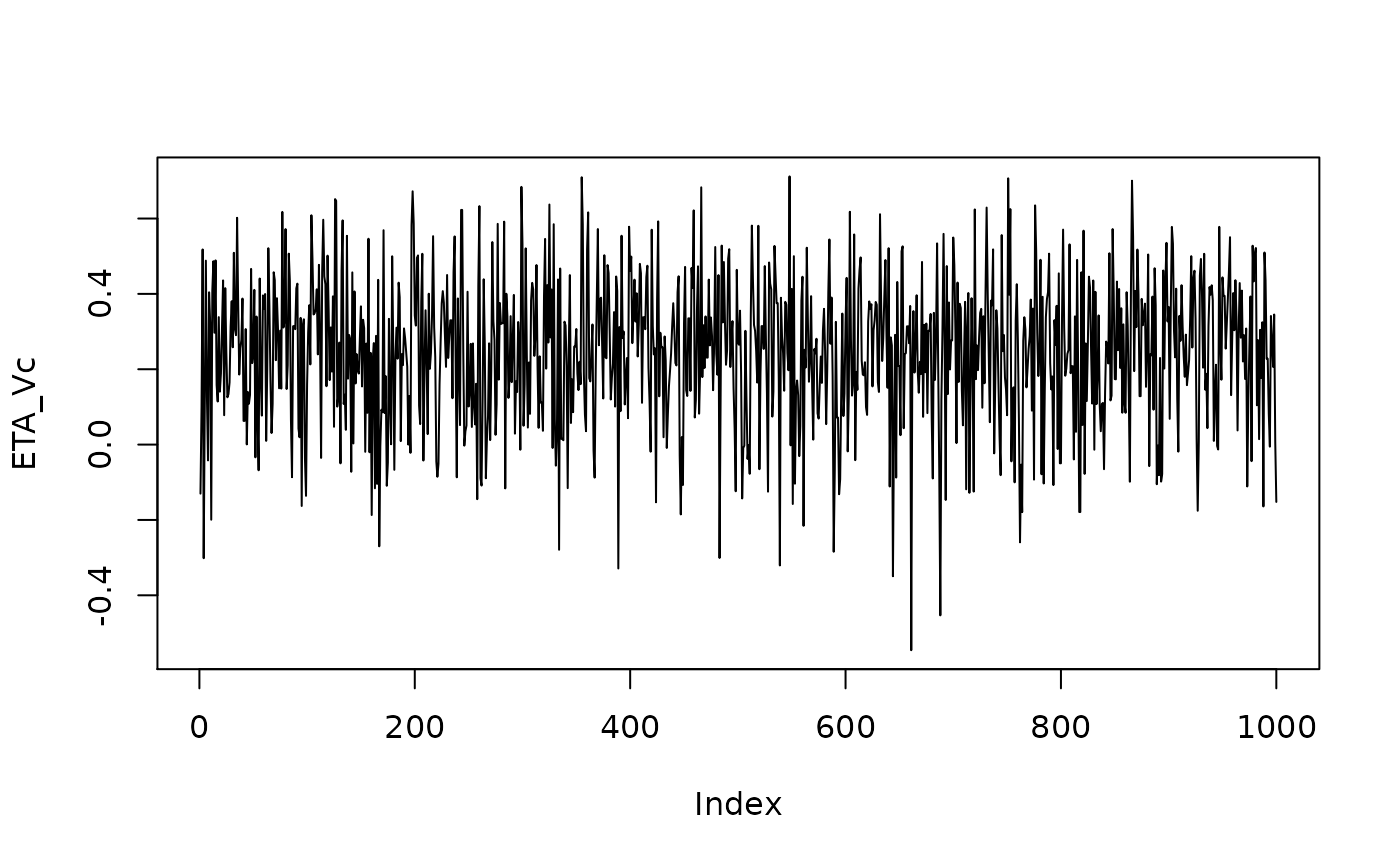
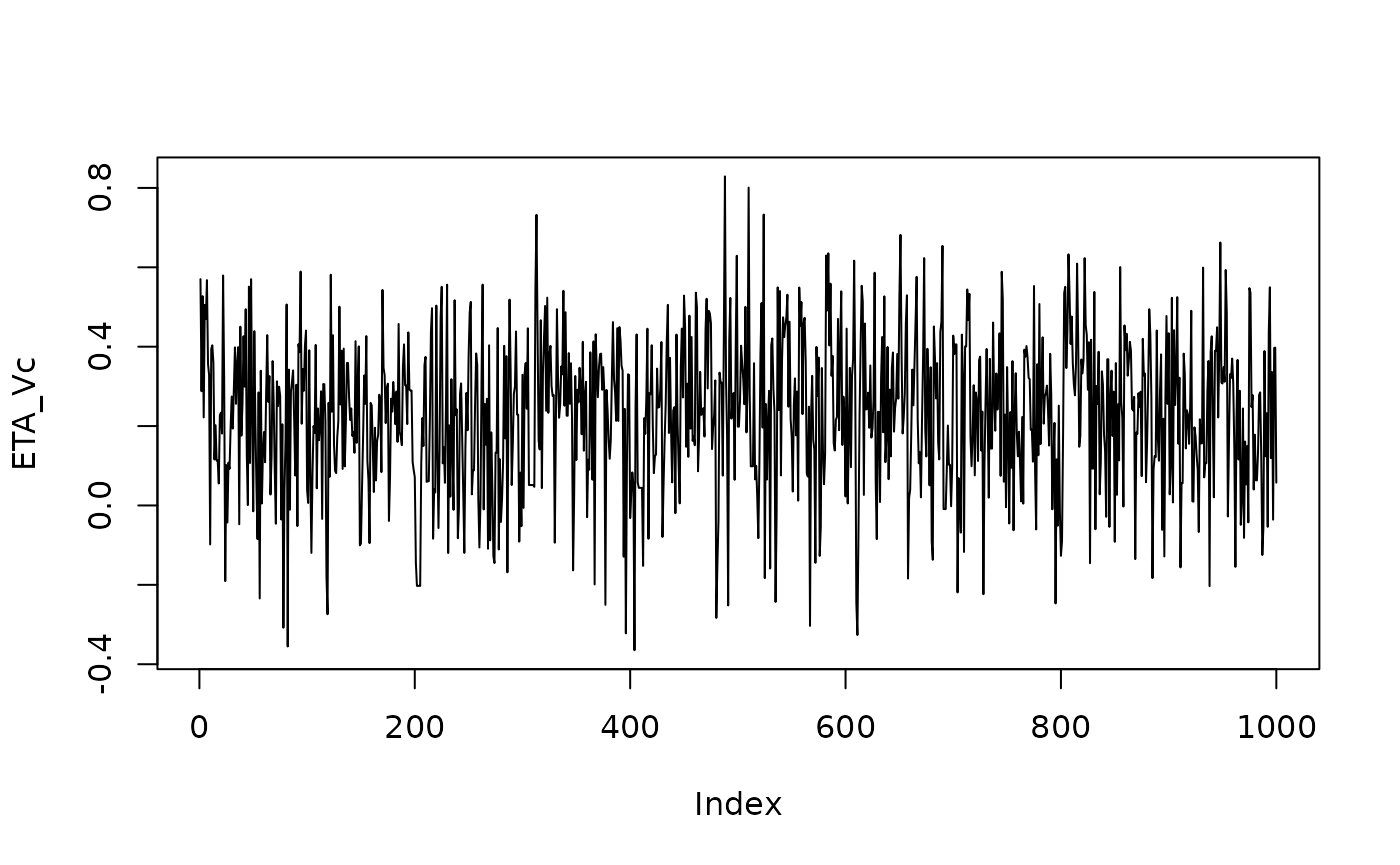
add more comments to the vignettes

diff --git a/docs/articles/case_study_amikacin.html b/docs/articles/case_study_amikacin.html
@@ -321,15 +321,19 @@
 <h3 class="hasAnchor">
 <a href="#single-administration" class="anchor"></a>Single administration</h3>
 <div class="sourceCode" id="cb17"><pre class="downlit sourceCode r">
-<code class="sourceCode R"><span class="va">event_table_mapdose</span> <span class="op">&lt;-</span> <span class="fu">RxODE</span><span class="fu">::</span><span class="fu"><a href="https://nlmixrdevelopment.github.io/RxODE/reference/et.html">et</a></span><span class="op">(</span>time<span class="op">=</span><span class="fl">0</span>,amt<span class="op">=</span><span class="va">map_dose</span>,dur<span class="op">=</span><span class="fl">0.5</span><span class="op">)</span>
+<code class="sourceCode R"><span class="co">#event table: optimal loading dose over 30 minutes</span>
+<span class="va">event_table_mapdose</span> <span class="op">&lt;-</span> <span class="fu">RxODE</span><span class="fu">::</span><span class="fu"><a href="https://nlmixrdevelopment.github.io/RxODE/reference/et.html">et</a></span><span class="op">(</span>time<span class="op">=</span><span class="fl">0</span>,amt<span class="op">=</span><span class="va">map_dose</span>,dur<span class="op">=</span><span class="fl">0.5</span><span class="op">)</span>
 <span class="va">event_table_mapdose</span><span class="op">$</span><span class="fu">add.sampling</span><span class="op">(</span><span class="fu"><a href="https://rdrr.io/r/base/seq.html">seq</a></span><span class="op">(</span><span class="fl">0</span>,<span class="fl">24</span>,by<span class="op">=</span><span class="fl">0.1</span><span class="op">)</span><span class="op">)</span>
 
+<span class="co">#MAP parameters</span>
 <span class="va">map_param_patA</span>      <span class="op">&lt;-</span> <span class="va">patA_map</span><span class="op">$</span><span class="va">model</span><span class="op">$</span><span class="va">params</span>
 
+<span class="co">#Simulate with the event table and the individual MAP parameters</span>
 <span class="va">map_dose_model_patA</span> <span class="op">&lt;-</span> <span class="fu">RxODE</span><span class="fu">::</span><span class="fu"><a href="https://nlmixrdevelopment.github.io/RxODE/reference/rxSolve.html">rxSolve</a></span><span class="op">(</span>object<span class="op">=</span><span class="va">patA_tdm_amik</span><span class="op">$</span><span class="va">ppk_model</span>,
                                   params<span class="op">=</span><span class="va">map_param_patA</span>,
                                   events<span class="op">=</span><span class="va">event_table_mapdose</span><span class="op">)</span>
 
+<span class="co">#Plot the results of the simulation</span>
 <span class="fu"><a href="https://rdrr.io/r/graphics/plot.default.html">plot</a></span><span class="op">(</span><span class="va">map_dose_model_patA</span>,<span class="va">Cc</span><span class="op">)</span> <span class="op">+</span> 
   <span class="fu">ggplot2</span><span class="fu">::</span><span class="fu"><a href="https://ggplot2.tidyverse.org/reference/labs.html">ylab</a></span><span class="op">(</span><span class="st">"Central concentration"</span><span class="op">)</span> <span class="op">+</span>
   <span class="fu">ggplot2</span><span class="fu">::</span><span class="fu"><a href="https://ggplot2.tidyverse.org/reference/geom_abline.html">geom_vline</a></span><span class="op">(</span>xintercept<span class="op">=</span><span class="fl">1</span>, linetype<span class="op">=</span><span class="st">"dashed"</span><span class="op">)</span> <span class="op">+</span>
@@ -341,13 +345,17 @@
 <h3 class="hasAnchor">
 <a href="#multiple-administrations" class="anchor"></a>Multiple administrations</h3>
 <div class="sourceCode" id="cb18"><pre class="downlit sourceCode r">
-<code class="sourceCode R"><span class="va">event_table_mapdose_ss</span> <span class="op">&lt;-</span> <span class="fu">RxODE</span><span class="fu">::</span><span class="fu"><a href="https://nlmixrdevelopment.github.io/RxODE/reference/et.html">et</a></span><span class="op">(</span>amt<span class="op">=</span><span class="va">map_dose</span>,dur<span class="op">=</span><span class="fl">0.5</span>,ii<span class="op">=</span><span class="va">map_interval</span>,addl<span class="op">=</span><span class="fl">2</span><span class="op">)</span>
+<code class="sourceCode R"><span class="co">#event table: optimal loading dose over 30 minutes</span>
+<span class="co"># 3 administrations with the optimal inter-dose interval</span>
+<span class="va">event_table_mapdose_ss</span> <span class="op">&lt;-</span> <span class="fu">RxODE</span><span class="fu">::</span><span class="fu"><a href="https://nlmixrdevelopment.github.io/RxODE/reference/et.html">et</a></span><span class="op">(</span>amt<span class="op">=</span><span class="va">map_dose</span>,dur<span class="op">=</span><span class="fl">0.5</span>,ii<span class="op">=</span><span class="va">map_interval</span>,addl<span class="op">=</span><span class="fl">2</span><span class="op">)</span>
 <span class="va">event_table_mapdose_ss</span><span class="op">$</span><span class="fu">add.sampling</span><span class="op">(</span><span class="fu"><a href="https://rdrr.io/r/base/seq.html">seq</a></span><span class="op">(</span><span class="fl">0</span>,<span class="fl">3.5</span><span class="op">*</span><span class="va">map_interval</span>,by<span class="op">=</span><span class="fl">0.1</span><span class="op">)</span><span class="op">)</span>
 
+<span class="co">#Simulate with the event table and the individual MAP parameters</span>
 <span class="va">map_dose_model_patA_ss</span> <span class="op">&lt;-</span> <span class="fu">RxODE</span><span class="fu">::</span><span class="fu"><a href="https://nlmixrdevelopment.github.io/RxODE/reference/rxSolve.html">rxSolve</a></span><span class="op">(</span>object<span class="op">=</span><span class="va">patA_tdm_amik</span><span class="op">$</span><span class="va">ppk_model</span>,
                                   params<span class="op">=</span><span class="va">map_param_patA</span>,
                                   events<span class="op">=</span><span class="va">event_table_mapdose_ss</span><span class="op">)</span>
 
+<span class="co">#Plot the results of the simulation</span>
 <span class="fu"><a href="https://rdrr.io/r/graphics/plot.default.html">plot</a></span><span class="op">(</span><span class="va">map_dose_model_patA_ss</span>,<span class="va">Cc</span><span class="op">)</span> <span class="op">+</span> 
   <span class="fu">ggplot2</span><span class="fu">::</span><span class="fu"><a href="https://ggplot2.tidyverse.org/reference/labs.html">ylab</a></span><span class="op">(</span><span class="st">"Central concentration"</span><span class="op">)</span> <span class="op">+</span>
   <span class="fu">ggplot2</span><span class="fu">::</span><span class="fu"><a href="https://ggplot2.tidyverse.org/reference/geom_ribbon.html">geom_ribbon</a></span><span class="op">(</span><span class="fu">ggplot2</span><span class="fu">::</span><span class="fu"><a href="https://ggplot2.tidyverse.org/reference/aes.html">aes</a></span><span class="op">(</span>ymin<span class="op">=</span><span class="fl">60</span>, ymax<span class="op">=</span><span class="fl">80</span><span class="op">)</span>,

diff --git a/docs/articles/uncertainty_estimates.html b/docs/articles/uncertainty_estimates.html
@@ -135,15 +135,19 @@
 <a href="#distribution-of-the-population-parameters" class="anchor"></a>Distribution of the population parameters</h2>
 <p>The inter-individual variability of the pharmacokinetic parameters can be explored by simulation, using the <code><a href="../reference/poso_simu_pop.html">poso_simu_pop()</a></code> function to generate sets of ETAs. The resulting distribution of ETAs is used to simulate and plot the pk profiles.</p>
 <div class="sourceCode" id="cb4"><pre class="downlit sourceCode r">
-<code class="sourceCode R"><span class="va">event_table_priordose</span> <span class="op">&lt;-</span> <span class="fu">RxODE</span><span class="fu">::</span><span class="fu"><a href="https://nlmixrdevelopment.github.io/RxODE/reference/et.html">et</a></span><span class="op">(</span>time<span class="op">=</span><span class="fl">0</span>,amt<span class="op">=</span><span class="fl">2080</span>,dur<span class="op">=</span><span class="fl">0.5</span><span class="op">)</span>
+<code class="sourceCode R"><span class="co">#event table: a single 30-minutes infusion</span>
+<span class="va">event_table_priordose</span> <span class="op">&lt;-</span> <span class="fu">RxODE</span><span class="fu">::</span><span class="fu"><a href="https://nlmixrdevelopment.github.io/RxODE/reference/et.html">et</a></span><span class="op">(</span>time<span class="op">=</span><span class="fl">0</span>,amt<span class="op">=</span><span class="fl">2080</span>,dur<span class="op">=</span><span class="fl">0.5</span><span class="op">)</span>
 <span class="va">event_table_priordose</span><span class="op">$</span><span class="fu">add.sampling</span><span class="op">(</span><span class="fu"><a href="https://rdrr.io/r/base/seq.html">seq</a></span><span class="op">(</span><span class="fl">0</span>,<span class="fl">24</span>,by<span class="op">=</span><span class="fl">0.1</span><span class="op">)</span><span class="op">)</span>
 
+<span class="co">#Simulate sets of ETAs from the prior ppk model</span>
 <span class="va">priordist_param_patA</span>      <span class="op">&lt;-</span> <span class="fu"><a href="../reference/poso_simu_pop.html">poso_simu_pop</a></span><span class="op">(</span><span class="va">patA_prior_amik</span><span class="op">)</span><span class="op">$</span><span class="va">model</span><span class="op">$</span><span class="va">params</span>
 
+<span class="co">#Simulate with the event table and the simulated population parameters</span>
 <span class="va">priordist_dose_model_patA</span> <span class="op">&lt;-</span> <span class="fu">RxODE</span><span class="fu">::</span><span class="fu"><a href="https://nlmixrdevelopment.github.io/RxODE/reference/rxSolve.html">rxSolve</a></span><span class="op">(</span>object<span class="op">=</span><span class="va">patA_prior_amik</span><span class="op">$</span><span class="va">ppk_model</span>,
                                   params<span class="op">=</span><span class="va">priordist_param_patA</span>,
                                   <span class="va">event_table_priordose</span><span class="op">)</span>
 
+<span class="co">#Plot the results of the simulations</span>
 <span class="fu"><a href="https://rdrr.io/r/graphics/plot.default.html">plot</a></span><span class="op">(</span><span class="fu"><a href="https://rdrr.io/r/stats/confint.html">confint</a></span><span class="op">(</span><span class="va">priordist_dose_model_patA</span>,<span class="st">"Cc"</span>, level<span class="op">=</span><span class="fl">0.95</span><span class="op">)</span>,ylab<span class="op">=</span><span class="st">"Central concentration"</span><span class="op">)</span>
 <span class="co">#&gt; ! in order to put confidence bands around the intervals, you need at least 2500 simulations</span>
 <span class="co">#&gt; summarizing data...done</span></code></pre></div>
@@ -214,9 +218,11 @@
 <a href="#plot-of-the-distribution-of-the-individual-profiles" class="anchor"></a>Plot of the distribution of the individual profiles</h2>
 <p>The distribution of the individual profiles obtained can be plotted. The dispersion is significantly lower than that observed for the a priori population profile.</p>
 <div class="sourceCode" id="cb9"><pre class="downlit sourceCode r">
-<code class="sourceCode R"><span class="va">mcmc_model_patA</span>      <span class="op">&lt;-</span> <span class="va">patA_mcmc</span><span class="op">$</span><span class="va">model</span>
+<code class="sourceCode R"><span class="co">#Add sampling times to the RxODE model of MCMC estimations</span>
+<span class="va">mcmc_model_patA</span>      <span class="op">&lt;-</span> <span class="va">patA_mcmc</span><span class="op">$</span><span class="va">model</span>
 <span class="va">mcmc_model_patA</span><span class="op">$</span><span class="va">time</span> <span class="op">&lt;-</span> <span class="fu"><a href="https://rdrr.io/r/base/seq.html">seq</a></span><span class="op">(</span><span class="fl">0</span>,<span class="fl">24</span>,by<span class="op">=</span><span class="fl">0.1</span><span class="op">)</span> 
 
+<span class="co">#Plot the results of the estimations</span>
 <span class="fu"><a href="https://rdrr.io/r/graphics/plot.default.html">plot</a></span><span class="op">(</span><span class="fu"><a href="https://rdrr.io/r/stats/confint.html">confint</a></span><span class="op">(</span><span class="va">mcmc_model_patA</span>,<span class="st">"Cc"</span>, level<span class="op">=</span><span class="fl">0.95</span><span class="op">)</span>,ylab<span class="op">=</span><span class="st">"Central concentration"</span><span class="op">)</span>
 <span class="co">#&gt; ! in order to put confidence bands around the intervals, you need at least 2500 simulations</span>
 <span class="co">#&gt; summarizing data...done</span></code></pre></div>
@@ -251,10 +257,10 @@
 <span class="co">#&gt; ETA_Q   -0.06  0.004  0.003  0.080</span>
 <span class="fu"><a href="https://rdrr.io/r/stats/cor.html">var</a></span><span class="op">(</span><span class="va">patA_mcmc</span><span class="op">$</span><span class="va">eta</span><span class="op">)</span>
 <span class="co">#&gt;              ETA_Cl       ETA_Vc       ETA_Vp        ETA_Q</span>
-<span class="co">#&gt; ETA_Cl  0.075855193  0.003763635 -0.086160861 -0.039938390</span>
-<span class="co">#&gt; ETA_Vc  0.003763635  0.038120842 -0.002749125 -0.008776889</span>
-<span class="co">#&gt; ETA_Vp -0.086160861 -0.002749125  0.175272230  0.059690870</span>
-<span class="co">#&gt; ETA_Q  -0.039938390 -0.008776889  0.059690870  0.052911619</span></code></pre></div>
+<span class="co">#&gt; ETA_Cl  0.070583209  0.004997293 -0.084337434 -0.037803443</span>
+<span class="co">#&gt; ETA_Vc  0.004997293  0.037167126 -0.003788056 -0.009872405</span>
+<span class="co">#&gt; ETA_Vp -0.084337434 -0.003788056  0.169321302  0.060538471</span>
+<span class="co">#&gt; ETA_Q  -0.037803443 -0.009872405  0.060538471  0.053832456</span></code></pre></div>
 </div>
 <div id="prior-and-posterior-distribution-of-the-parameters" class="section level2">
 <h2 class="hasAnchor">

diff --git a/docs/articles/case_study_vancomycin.html b/docs/articles/case_study_vancomycin.html
@@ -305,18 +305,18 @@
 <a href="#simulate-and-plot-the-optimal-a-posteriori-dosage-1" class="anchor"></a>Simulate and plot the optimal a posteriori dosage</h2>
 <div class="sourceCode" id="cb13"><pre class="downlit sourceCode r">
 <code class="sourceCode R"><span class="co">#event table: loading dose followed by continuous infusion</span>
-<span class="va">et_maint_ci</span>        <span class="op">&lt;-</span> <span class="fu">RxODE</span><span class="fu">::</span><span class="fu"><a href="https://nlmixrdevelopment.github.io/RxODE/reference/et.html">et</a></span><span class="op">(</span>time<span class="op">=</span><span class="fl">2</span>,
-                                amt<span class="op">=</span><span class="va">maintenance_dose_map_ci</span>,
-                                dur<span class="op">=</span><span class="fl">24</span>,
-                                ii<span class="op">=</span><span class="fl">24</span>,
-                                until<span class="op">=</span><span class="fl">240</span><span class="op">)</span>
-<span class="va">et_ci</span>              <span class="op">&lt;-</span> <span class="va">et_maint_ci</span> <span class="op">%&gt;%</span> <span class="fu">RxODE</span><span class="fu">::</span><span class="fu"><a href="https://nlmixrdevelopment.github.io/RxODE/reference/add.dosing.html">add.dosing</a></span><span class="op">(</span>dose<span class="op">=</span><span class="va">loading_dose_map</span>,dur<span class="op">=</span><span class="fl">2</span><span class="op">)</span>
-<span class="va">et_optim_dosage_ci</span> <span class="op">&lt;-</span> <span class="va">et_ci</span> <span class="op">%&gt;%</span> <span class="fu">RxODE</span><span class="fu">::</span><span class="fu"><a href="https://nlmixrdevelopment.github.io/RxODE/reference/et.html">et</a></span><span class="op">(</span><span class="fu"><a href="https://rdrr.io/r/base/seq.html">seq</a></span><span class="op">(</span><span class="fl">0</span>,<span class="fl">240</span>,by<span class="op">=</span><span class="fl">0.1</span><span class="op">)</span><span class="op">)</span>
+<span class="va">et_maint_ci</span> <span class="op">&lt;-</span> <span class="fu">RxODE</span><span class="fu">::</span><span class="fu"><a href="https://nlmixrdevelopment.github.io/RxODE/reference/et.html">et</a></span><span class="op">(</span>time<span class="op">=</span><span class="fl">2</span>,
+                         amt<span class="op">=</span><span class="va">maintenance_dose_map_ci</span>,
+                         dur<span class="op">=</span><span class="fl">24</span>,
+                         ii<span class="op">=</span><span class="fl">24</span>,
+                         until<span class="op">=</span><span class="fl">240</span><span class="op">)</span>
+<span class="va">et_ci</span>       <span class="op">&lt;-</span> <span class="va">et_maint_ci</span> <span class="op">%&gt;%</span> <span class="fu">RxODE</span><span class="fu">::</span><span class="fu"><a href="https://nlmixrdevelopment.github.io/RxODE/reference/add.dosing.html">add.dosing</a></span><span class="op">(</span>dose<span class="op">=</span><span class="va">loading_dose_map</span>,dur<span class="op">=</span><span class="fl">2</span><span class="op">)</span>
+<span class="va">et_ci</span>       <span class="op">%&lt;&gt;%</span> <span class="fu">RxODE</span><span class="fu">::</span><span class="fu"><a href="https://nlmixrdevelopment.github.io/RxODE/reference/et.html">et</a></span><span class="op">(</span><span class="fu"><a href="https://rdrr.io/r/base/seq.html">seq</a></span><span class="op">(</span><span class="fl">0</span>,<span class="fl">240</span>,by<span class="op">=</span><span class="fl">0.1</span><span class="op">)</span><span class="op">)</span>
 
 <span class="co">#Simulate with the event table and the individual MAP parameters</span>
 <span class="va">map_optim_model_patB_ci</span>  <span class="op">&lt;-</span> <span class="fu">RxODE</span><span class="fu">::</span><span class="fu"><a href="https://nlmixrdevelopment.github.io/RxODE/reference/rxSolve.html">rxSolve</a></span><span class="op">(</span>object<span class="op">=</span><span class="va">patB_tdm_vanco</span><span class="op">$</span><span class="va">ppk_model</span>,
                                           params<span class="op">=</span><span class="va">patB_map</span><span class="op">$</span><span class="va">model</span><span class="op">$</span><span class="va">params</span>,
-                                          events<span class="op">=</span><span class="va">et_optim_dosage_ci</span><span class="op">)</span>
+                                          events<span class="op">=</span><span class="va">et_ci</span><span class="op">)</span>
 
 <span class="co">#Plot the results of the simulation</span>
 <span class="fu"><a href="https://rdrr.io/r/graphics/plot.default.html">plot</a></span><span class="op">(</span><span class="va">map_optim_model_patB_ci</span>,<span class="va">Cc</span><span class="op">)</span> <span class="op">+</span> 

diff --git a/docs/news/index.html b/docs/news/index.html
@@ -138,9 +138,9 @@
       <small>Source: <a href='https://github.com/levenc/posologyr/blob/master/NEWS.md'><code>NEWS.md</code></a></small>
     </div>
 
-    <div id="posologyr-011" class="section level1">
+    <div id="posologyr-v011" class="section level1">
 <h1 class="page-header" data-toc-text="0.1.1">
-<a href="#posologyr-011" class="anchor"></a>posologyr 0.1.1</h1>
+<a href="#posologyr-v011" class="anchor"></a>posologyr v0.1.1</h1>
 <ul>
 <li>
 <code><a href="../reference/poso_time_cmin.html">poso_time_cmin()</a></code>, <code><a href="../reference/poso_dose_ctime.html">poso_dose_ctime()</a></code>, and <code><a href="../reference/poso_dose_auc.html">poso_dose_auc()</a></code> now work for multiple dose regimen.</li>
@@ -150,9 +150,9 @@
 <code><a href="../articles/case_study_vancomycin.html">vignette("case_study_vancomycin")</a></code> illustrates AUC-based optimal dosing, multiple dose regimen, and continuous intravenous infusion.</li>
 </ul>
 </div>
-    <div id="posologyr-010" class="section level1">
+    <div id="posologyr-v010" class="section level1">
 <h1 class="page-header" data-toc-text="0.1.0">
-<a href="#posologyr-010" class="anchor"></a>posologyr 0.1.0</h1>
+<a href="#posologyr-v010" class="anchor"></a>posologyr v0.1.0</h1>
 <p>First public release.</p>
 </div>
   </div>
